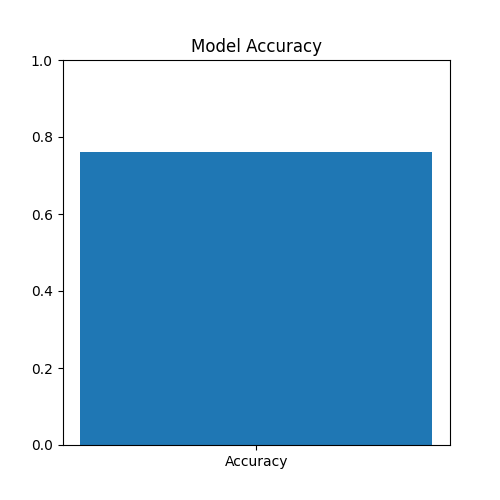
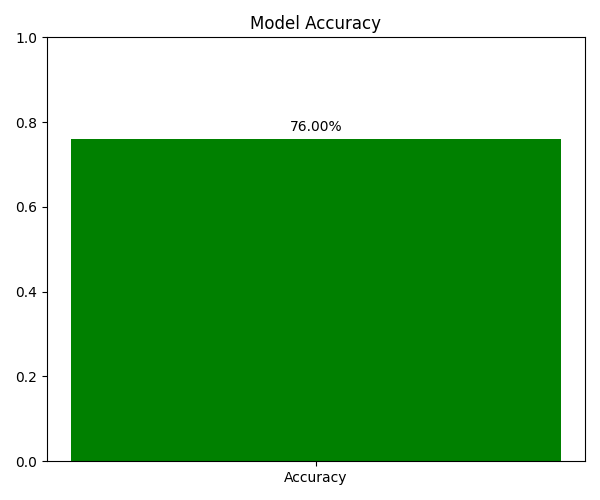
Fix sklearn deployment compatibility new

diff --git a/train_model.py b/train_model.py
@@ -45,18 +45,23 @@ if 'Unnamed: 0' in df.columns:
 target_col = 'Risk'
 
 if target_col not in df.columns:
+
     raise Exception(
         "\nERROR: Kolom 'Risk' tidak ditemukan!\n"
         "Gunakan dataset German Credit yang memiliki kolom Risk."
     )
 
 # ============================================================
-# HANDLE MISSING VALUE
+# CEK MISSING VALUE
 # ============================================================
 
 print("\n================ MISSING VALUE ================")
 
 print(df.isnull().sum())
+
+# ============================================================
+# HANDLE MISSING VALUE
+# ============================================================
 
 for col in df.select_dtypes(include='object').columns:
 
@@ -88,6 +93,7 @@ for col in cat_cols:
     )
 
     print(f"\n{col}")
+
     print(mapping)
 
 # ============================================================
@@ -103,6 +109,7 @@ print("\n================ FITUR ================")
 print(X.columns.tolist())
 
 print("\nDistribusi Target :")
+
 print(y.value_counts())
 
 # ============================================================
@@ -114,7 +121,7 @@ scaler = StandardScaler()
 X_scaled = scaler.fit_transform(X)
 
 # ============================================================
-# SPLIT TRAIN TEST
+# SPLIT DATA
 # ============================================================
 
 X_train, X_test, y_train, y_test = train_test_split(
@@ -128,6 +135,7 @@ X_train, X_test, y_train, y_test = train_test_split(
 print("\n================ SPLIT DATA ================")
 
 print("Jumlah Train :", X_train.shape[0])
+
 print("Jumlah Test  :", X_test.shape[0])
 
 # ============================================================
@@ -157,43 +165,10 @@ for k in k_values:
     print(f"K = {k} | Error = {error:.4f}")
 
 # ============================================================
-# GRAFIK ELBOW
+# CARI K TERBAIK
 # ============================================================
 
-os.makedirs('static', exist_ok=True)
-
-plt.figure(figsize=(10, 5))
-
-plt.plot(
-    k_values,
-    error_rates,
-    marker='o',
-    linewidth=2
-)
-
-plt.title('Elbow Method KNN')
-
-plt.xlabel('Nilai K')
-
-plt.ylabel('Error Rate')
-
-plt.grid(True)
-
 best_k = error_rates.index(min(error_rates)) + 1
-
-plt.axvline(
-    x=best_k,
-    linestyle='--',
-    label=f'K Optimal = {best_k}'
-)
-
-plt.legend()
-
-plt.tight_layout()
-
-plt.savefig('static/elbow_method.png')
-
-plt.close()
 
 print(f"\nK Optimal : {best_k}")
 
@@ -229,6 +204,55 @@ print(
 )
 
 # ============================================================
+# BUAT FOLDER STATIC
+# ============================================================
+
+os.makedirs('static', exist_ok=True)
+
+# ============================================================
+# GRAFIK ELBOW METHOD
+# ============================================================
+
+plt.figure(figsize=(10, 5))
+
+plt.plot(
+    k_values,
+    error_rates,
+    marker='o',
+    linewidth=2,
+    color='blue'
+)
+
+plt.axvline(
+    x=best_k,
+    color='red',
+    linestyle='--',
+    label=f'K Optimal = {best_k}'
+)
+
+plt.title('Elbow Method KNN')
+
+plt.xlabel('Nilai K')
+
+plt.ylabel('Error Rate')
+
+plt.legend()
+
+plt.grid(True)
+
+plt.tight_layout()
+
+plt.savefig(
+    'static/elbow_method.png'
+)
+
+print("\nMenampilkan Grafik Elbow Method...")
+
+plt.show()
+
+plt.close()
+
+# ============================================================
 # CONFUSION MATRIX
 # ============================================================
 
@@ -238,16 +262,25 @@ cm = confusion_matrix(
 )
 
 disp = ConfusionMatrixDisplay(
-    confusion_matrix=cm
+    confusion_matrix=cm,
+    display_labels=['BAD', 'GOOD']
 )
 
-disp.plot()
+fig, ax = plt.subplots(figsize=(6, 6))
+
+disp.plot(ax=ax)
 
 plt.title('Confusion Matrix')
+
+plt.tight_layout()
 
 plt.savefig(
     'static/confusion_matrix.png'
 )
+
+print("\nMenampilkan Confusion Matrix...")
+
+plt.show()
 
 plt.close()
 
@@ -255,20 +288,38 @@ plt.close()
 # ACCURACY CHART
 # ============================================================
 
-plt.figure(figsize=(5, 5))
+plt.figure(figsize=(6, 5))
 
-plt.bar(
+bars = plt.bar(
     ['Accuracy'],
-    [accuracy]
+    [accuracy],
+    color='green'
 )
 
 plt.ylim(0, 1)
 
 plt.title('Model Accuracy')
 
+for bar in bars:
+
+    yval = bar.get_height()
+
+    plt.text(
+        bar.get_x() + bar.get_width()/2,
+        yval + 0.02,
+        f'{accuracy:.2%}',
+        ha='center'
+    )
+
+plt.tight_layout()
+
 plt.savefig(
     'static/accuracy_chart.png'
 )
+
+print("\nMenampilkan Accuracy Chart...")
+
+plt.show()
 
 plt.close()
 
@@ -315,13 +366,16 @@ print("model/label_encoders.pkl")
 print("model/best_k.pkl")
 print("model/feature_columns.pkl")
 
-print("\n================ GRAFIK ================")
+print("\n================ GRAFIK BERHASIL DIBUAT ================")
 
 print("static/elbow_method.png")
 print("static/confusion_matrix.png")
 print("static/accuracy_chart.png")
 
-print("\nMODEL BERHASIL DITRAIN!")
+print("\n================ TRAINING SELESAI ================")
+
+print("MODEL BERHASIL DITRAIN!")
 
 print("\nJalankan Flask dengan:")
-print("python app.py")
+
+print("py -3.11 app.py")